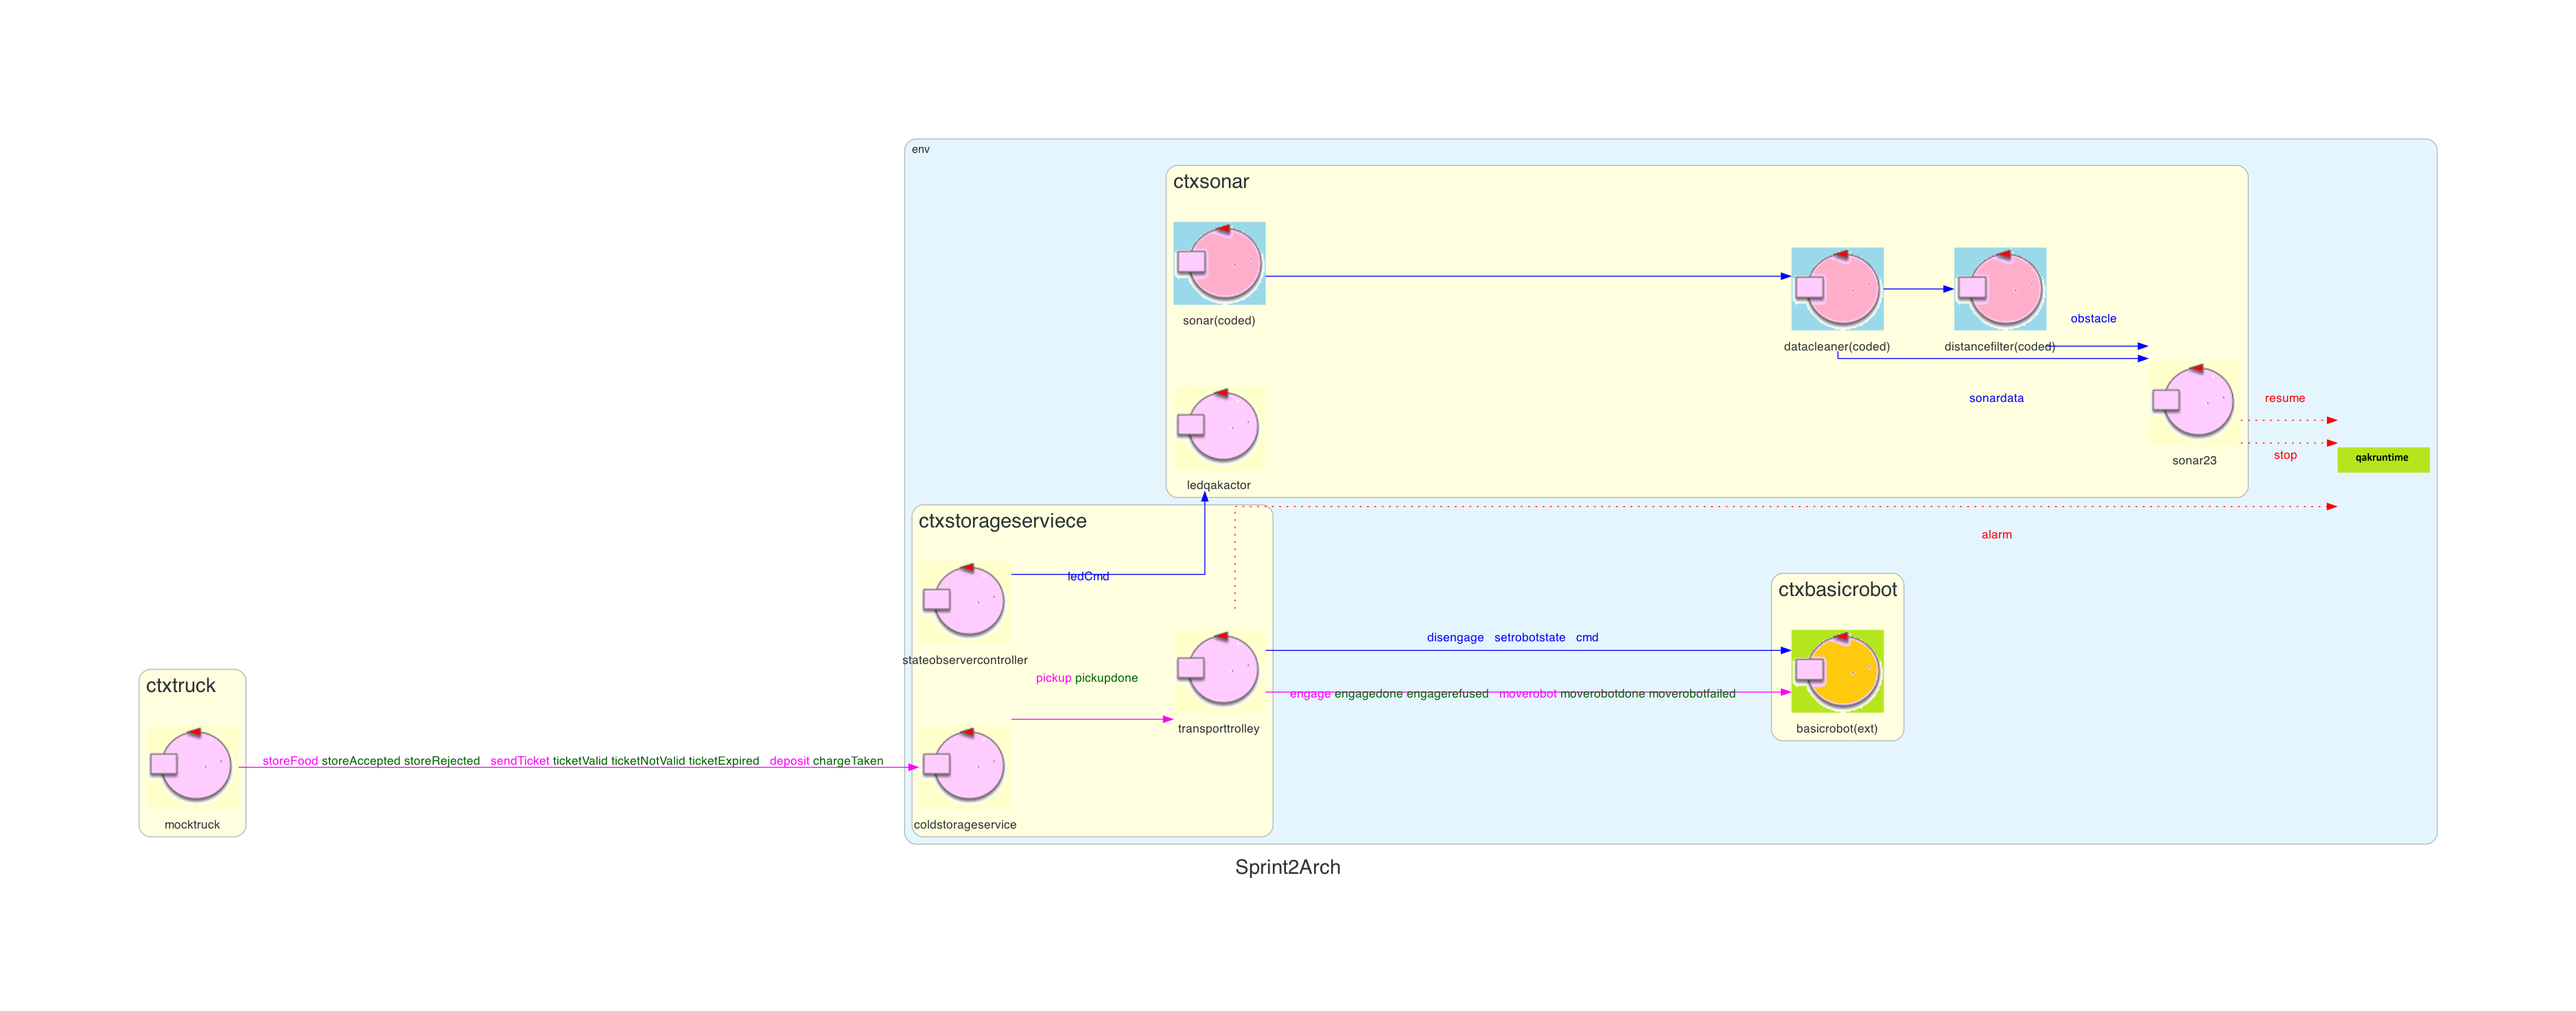
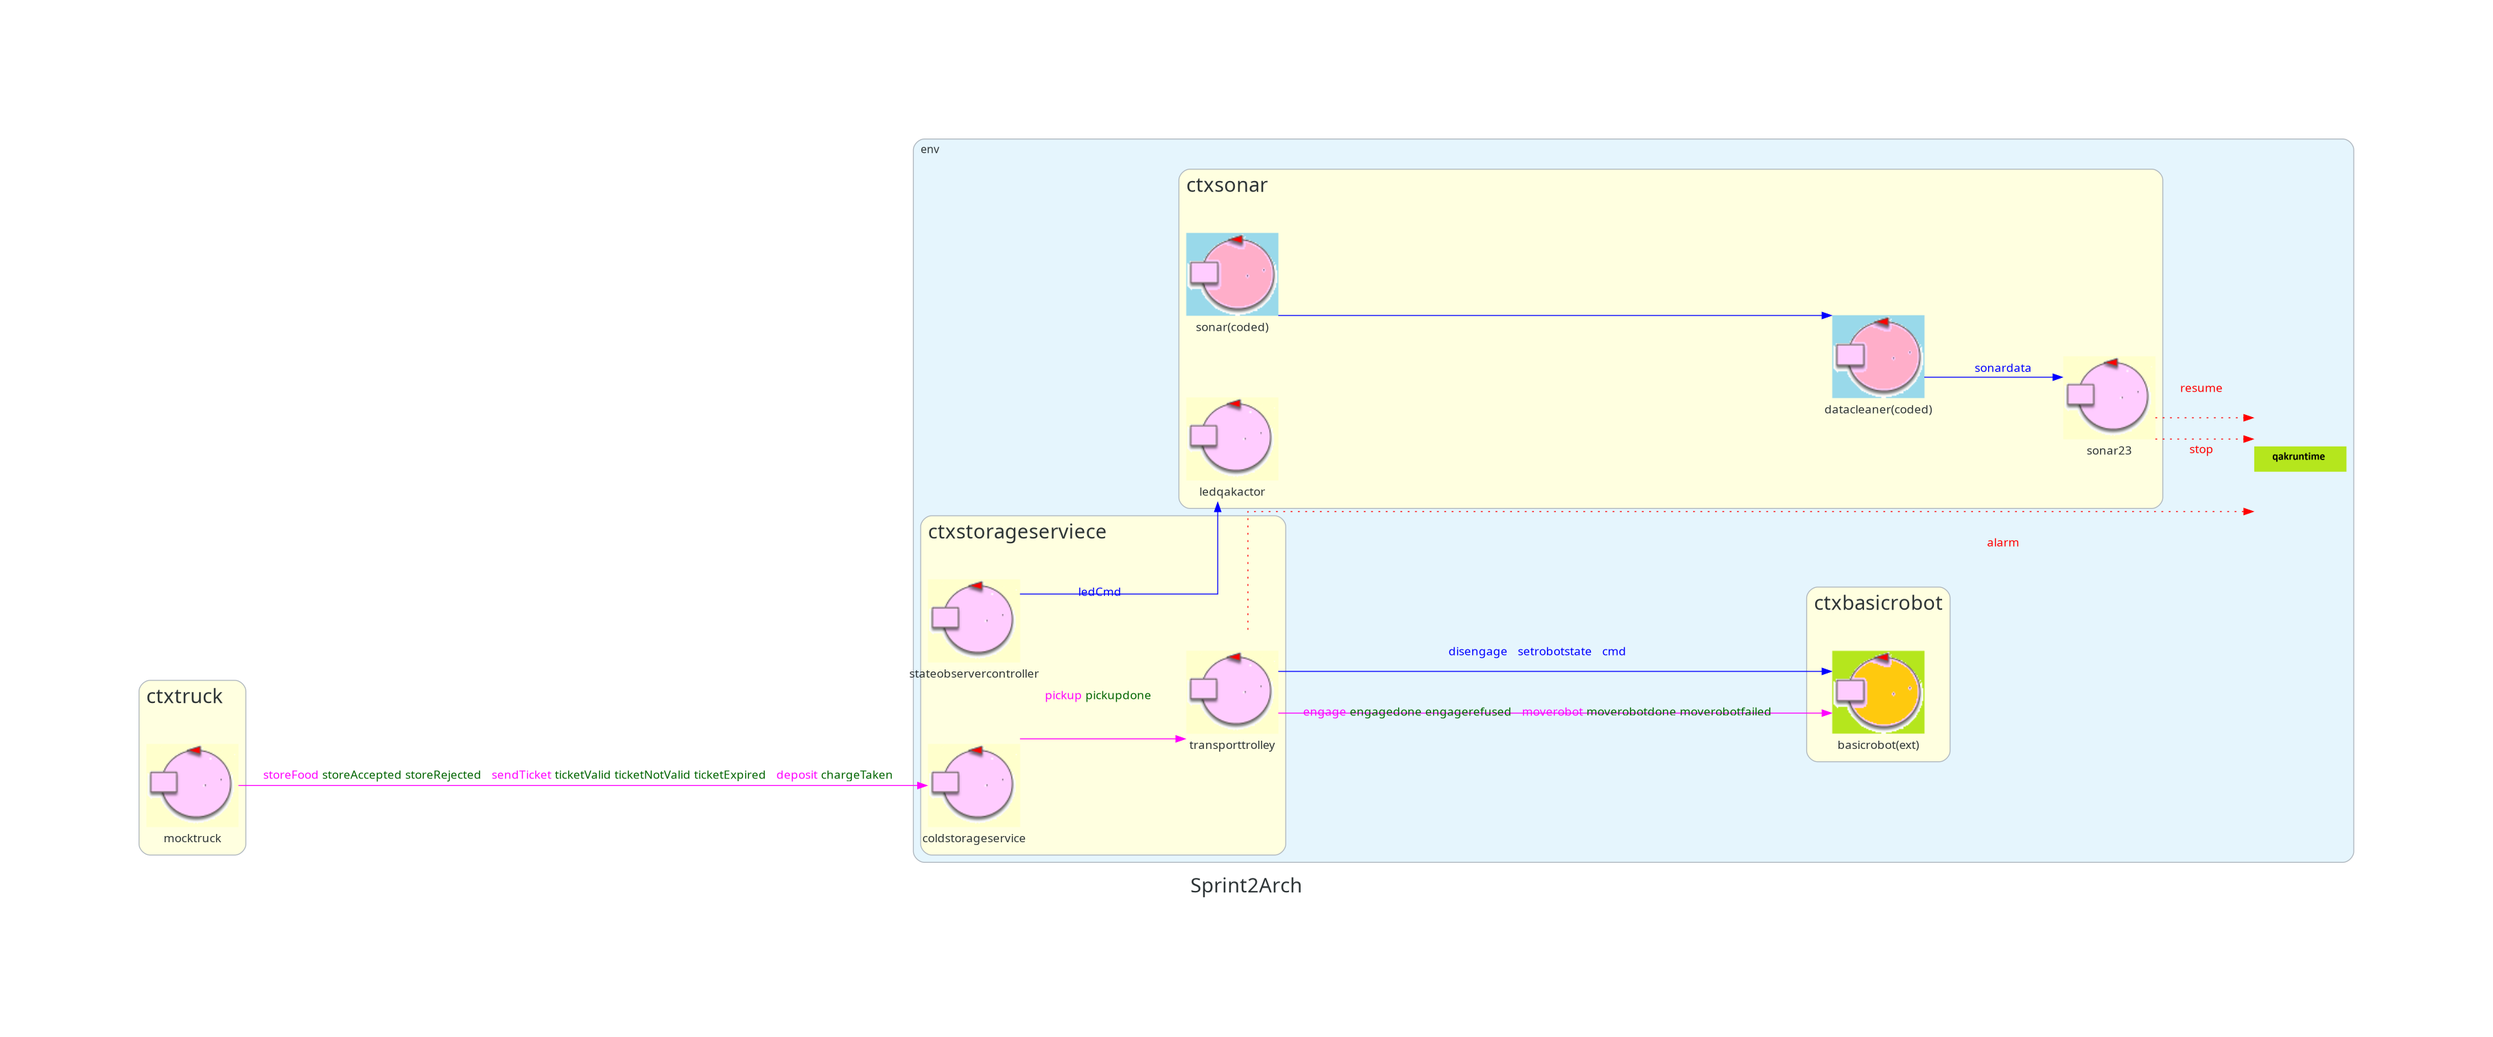
update sprint2arch.png

Changed region(s): [[0.0311, 0.1248, 0.964, 0.8738]]

diff --git a/Sprint2Reviewed/unibo.prototipo2/MyArch_LogicArchitecture.py b/Sprint2Reviewed/unibo.prototipo2/MyArch_LogicArchitecture.py
@@ -31,7 +31,6 @@ with Diagram('Sprint2Arch', show=False, outformat='png', graph_attr=graphattr) a
             sonar=Custom('sonar(coded)','./qakicons/codedQActor.png')
             ledqakactor=Custom('ledqakactor','./qakicons/symActorSmall.png')
             datacleaner=Custom('datacleaner(coded)','./qakicons/codedQActor.png')
-            distancefilter=Custom('distancefilter(coded)','./qakicons/codedQActor.png')
         with Cluster('ctxstorageserviece', graph_attr=nodeattr):
             coldstorageservice=Custom('coldstorageservice','./qakicons/symActorSmall.png')
             transporttrolley=Custom('transporttrolley','./qakicons/symActorSmall.png')
@@ -44,9 +43,7 @@ with Diagram('Sprint2Arch', show=False, outformat='png', graph_attr=graphattr) a
     #sys >> Edge( label='stop', **eventedgeattr, fontcolor='red') >> transporttrolley
     ##
     sonar >>  Edge(color='blue', style='solid',  fontcolor='blue') >> datacleaner
-    datacleaner >>  Edge(color='blue', style='solid',  fontcolor='blue') >> distancefilter
     datacleaner >> Edge(color='blue', style='solid',  label='<sonardata &nbsp;>',  fontcolor='blue') >> sonar23
-    distancefilter >> Edge(color='blue', style='solid',  label='<obstacle &nbsp;>',  fontcolor='blue') >> sonar23
     sonar23 >> Edge( label='<resume &nbsp;>', **eventedgeattr, fontcolor='red') >> sys
     sonar23 >> Edge( label='<stop &nbsp;>', **eventedgeattr, fontcolor='red') >> sys
     coldstorageservice >> Edge(color='magenta', style='solid', decorate='false', label='<pickup<font color="darkgreen"> pickupdone</font> &nbsp; >',  fontcolor='magenta') >> transporttrolley
